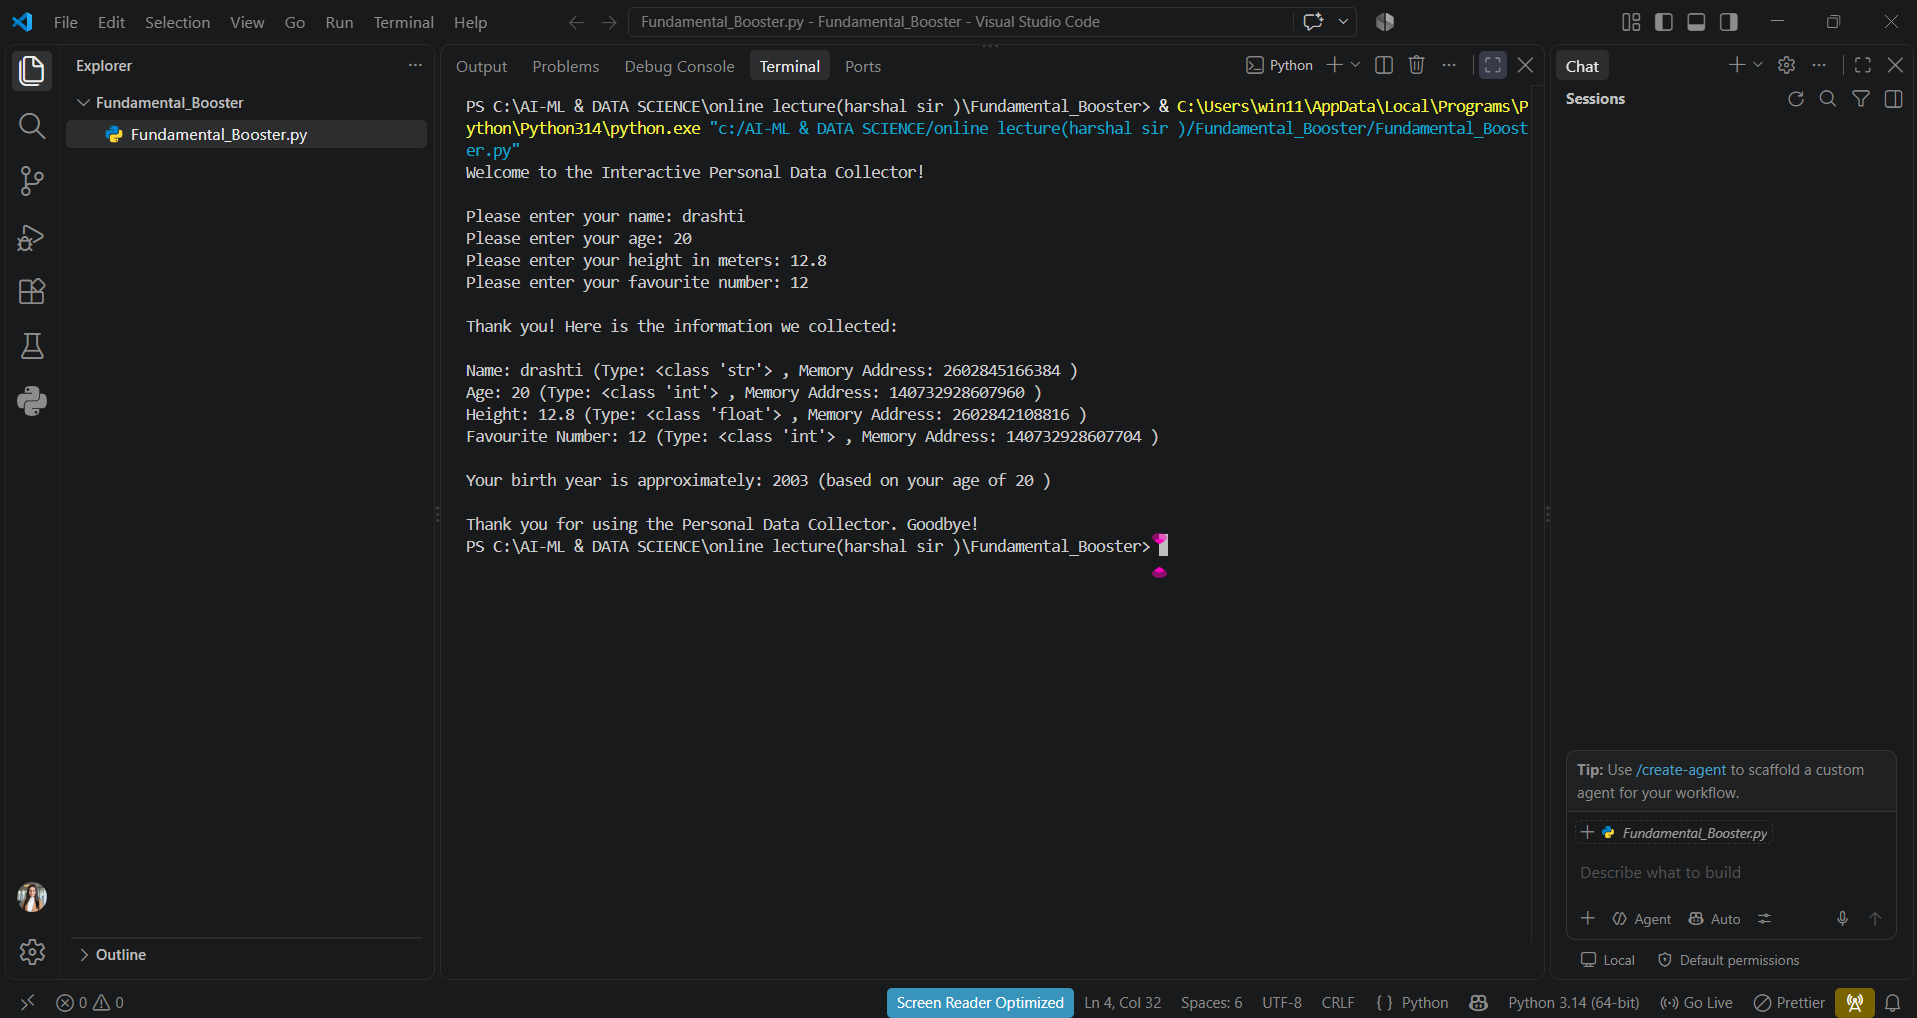
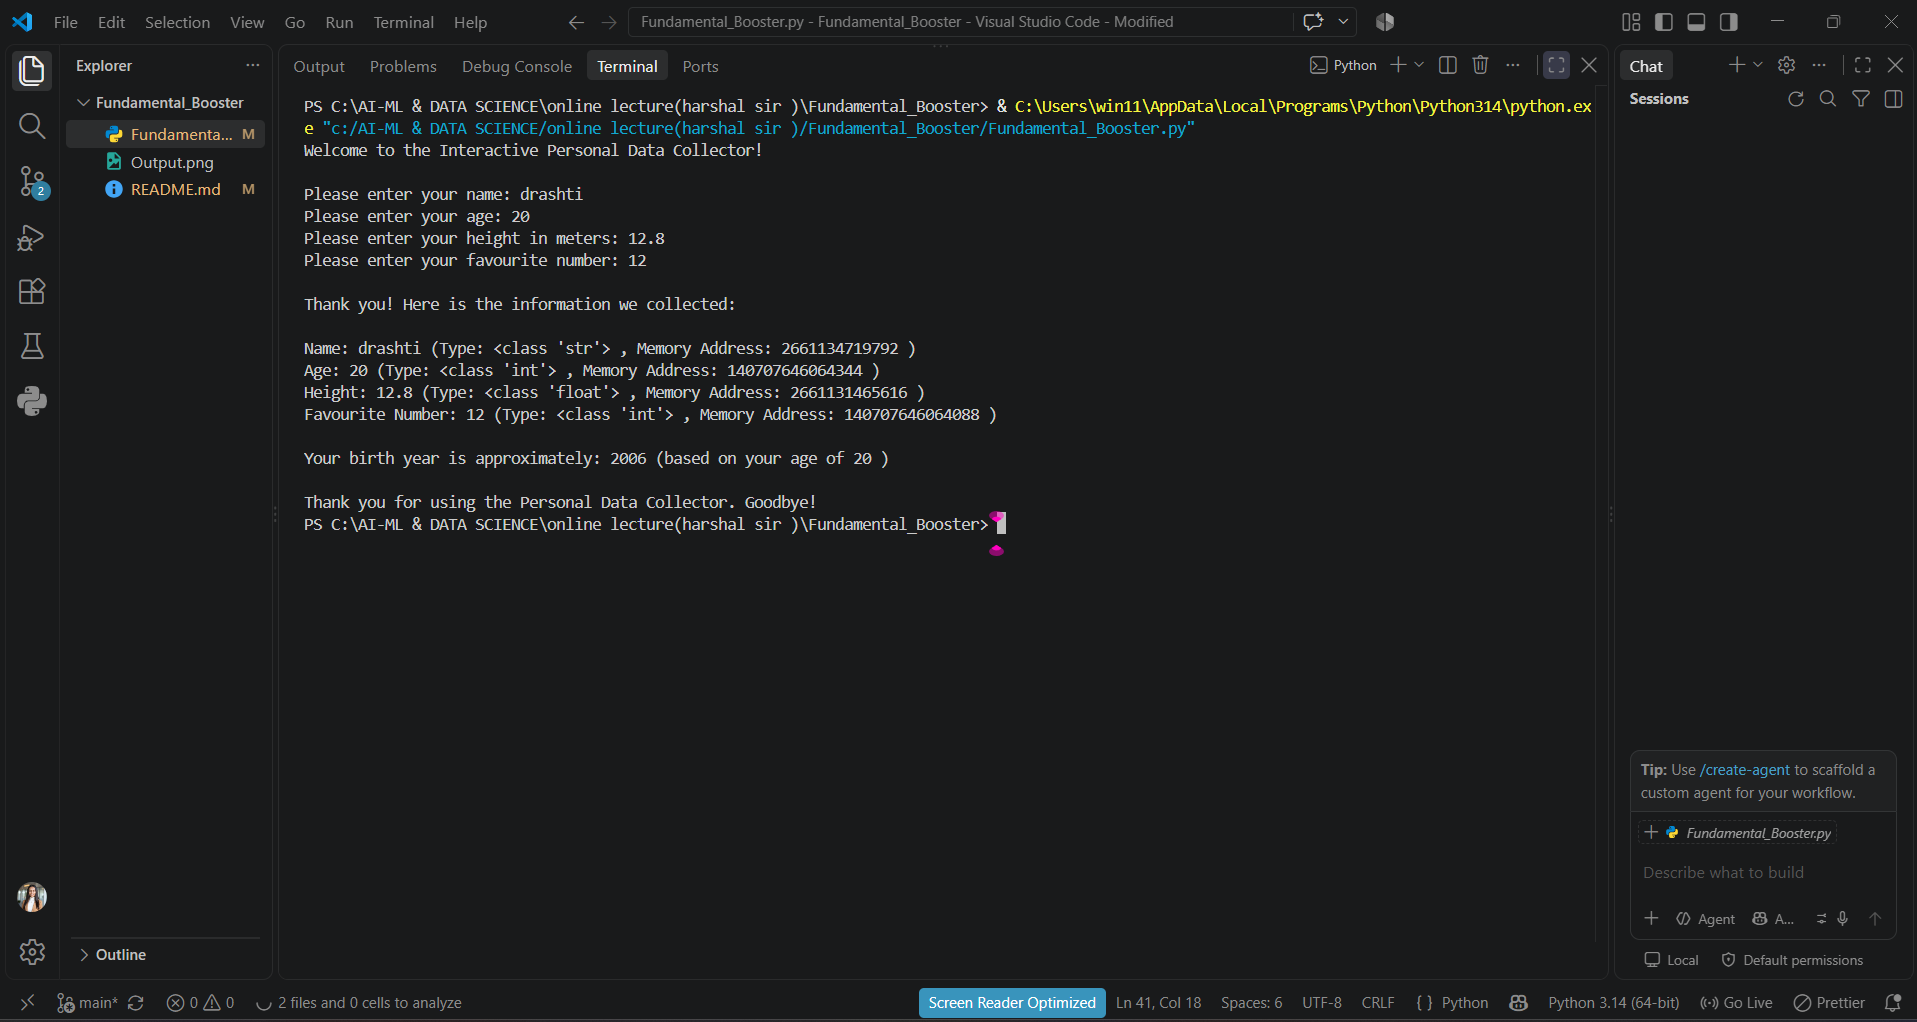
Fundamental_Booster

diff --git a/Fundamental_Booster.py b/Fundamental_Booster.py
@@ -38,7 +38,7 @@ print("Favourite Number:", favourite_number,
 
 print()
 
-birth_year = 2023 - age
+birth_year = 2026 - age
 
 print("Your birth year is approximately:", birth_year,
       "(based on your age of", age, ")")

diff --git a/README.md b/README.md
@@ -65,7 +65,7 @@ Age: 20
 Height: 12.8
 Favorite Number: 12
 
-Your birth year is approximately: 2003 (based on your age of 20 )
+Your birth year is approximately: 2006 (based on your age of 20 )
 
 Thank you for using the Personal Data Collector. Goodbye!
 
